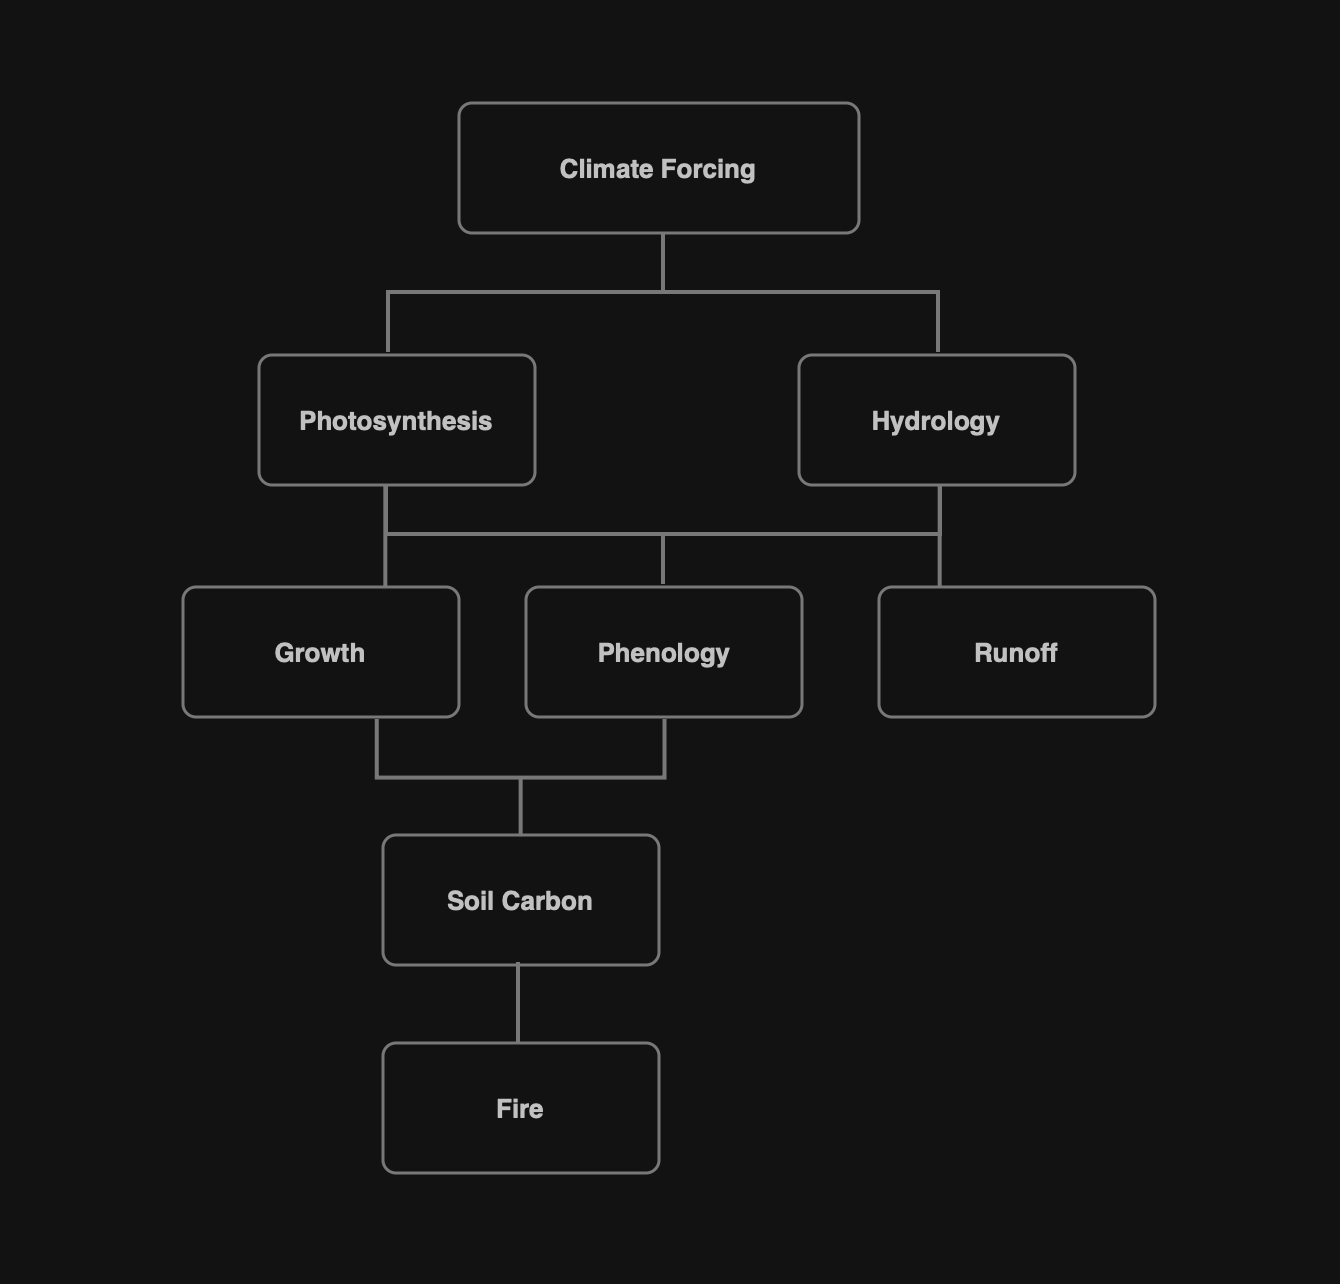
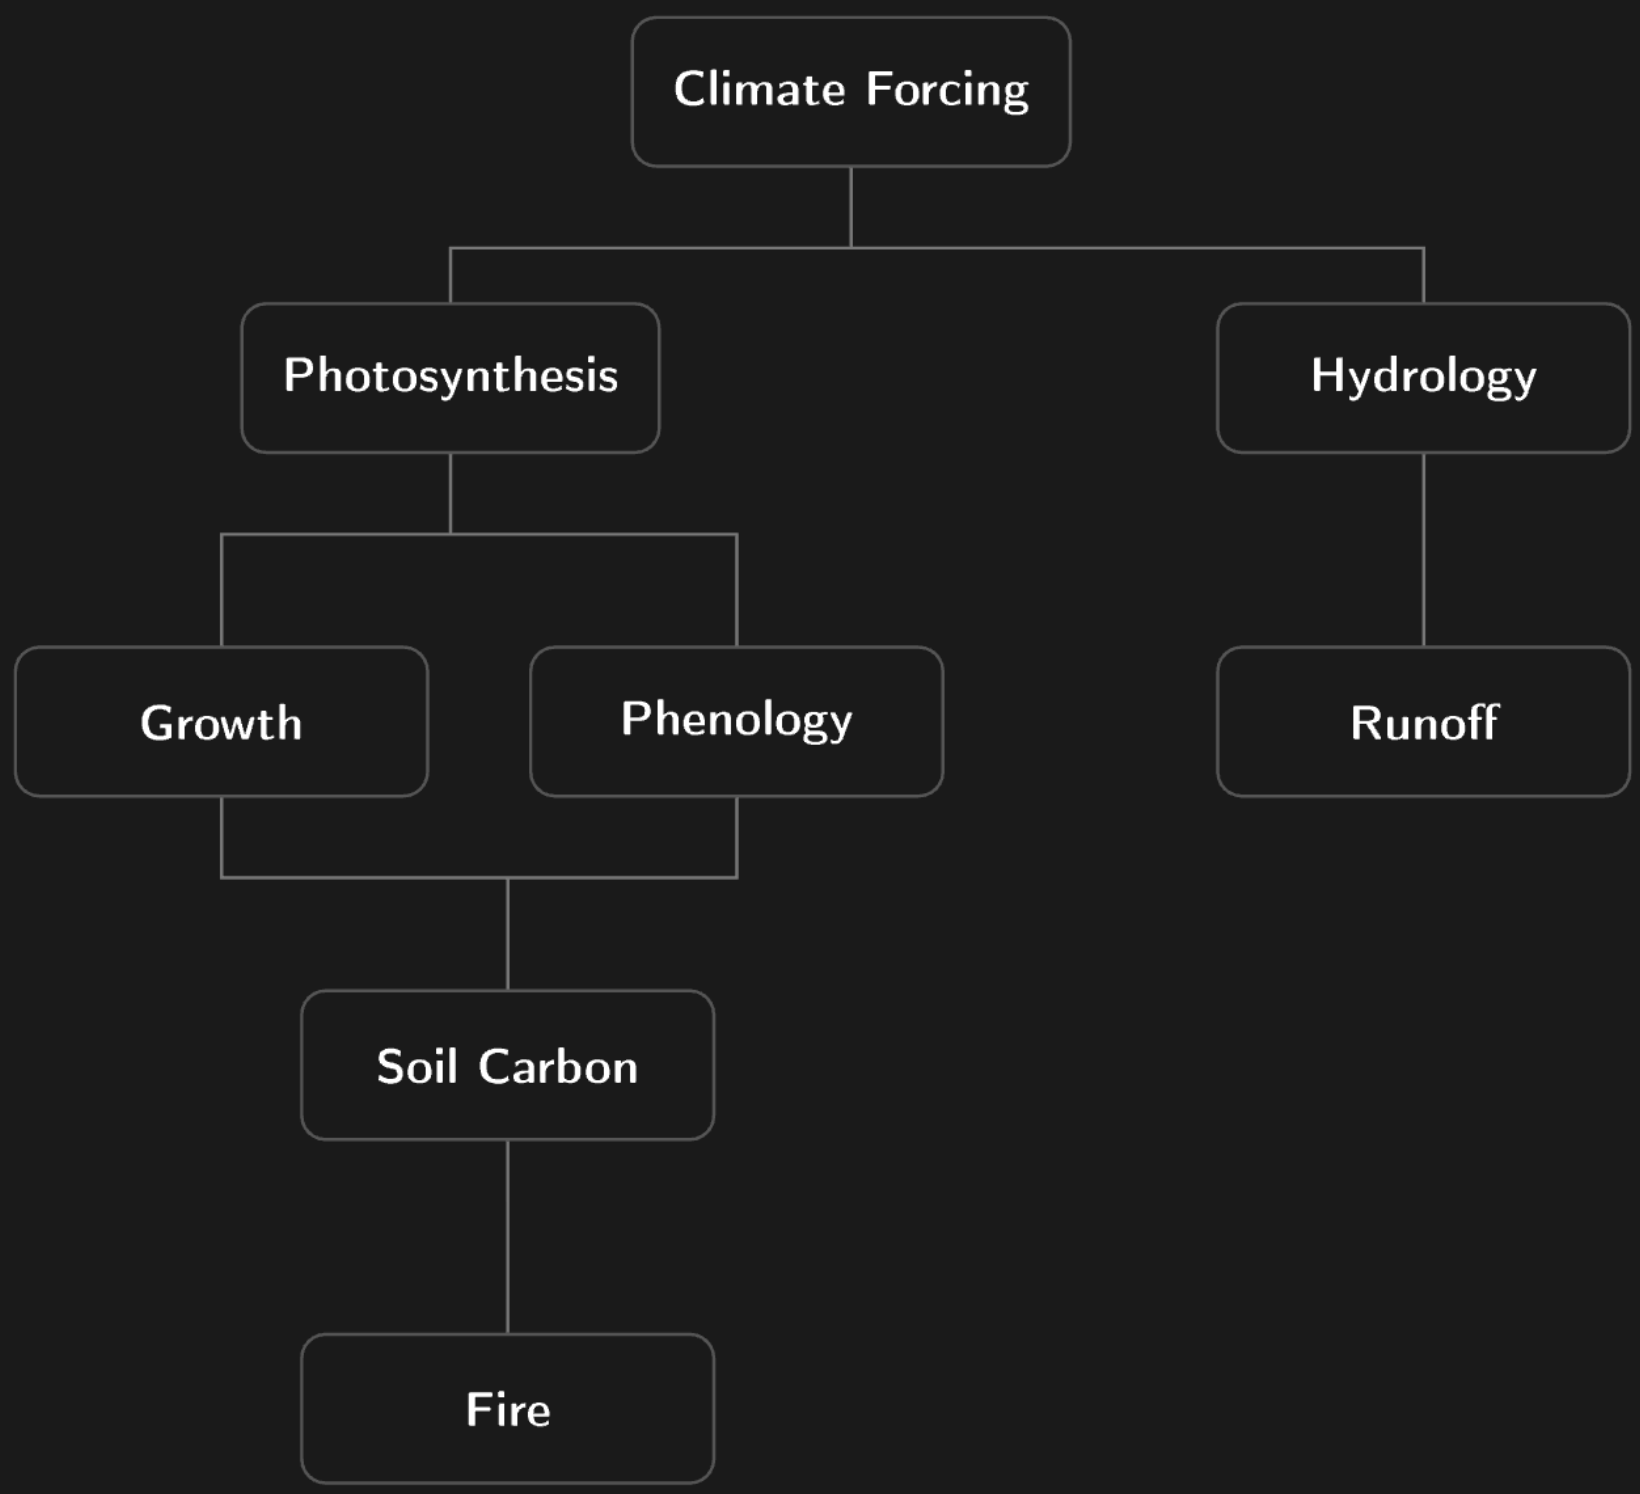
Update blog diagrams, fix distill layout, add bibliography
- Updated autoresearch loop and dependency graph PNGs
- Added echarts + chartjs script includes to distill layout
- Added scroll lock fix for distill page load
- Added bibliography reference back to frontmatter
- Added table border styles for distill
- Removed authors/affiliations from frontmatter

diff --git a/_sass/_distill.scss b/_sass/_distill.scss
@@ -2,8 +2,111 @@
  * Style overrides for distill blog posts.
  ******************************************************************************/
 
+d-title,
+d-byline,
+d-article,
+d-appendix,
+d-footnote-list,
+d-citation-list {
+  display: grid;
+  justify-items: stretch;
+  grid-template-columns: [screen-start] 8px [page-start kicker-start text-start gutter-start middle-start] 1fr 1fr 1fr 1fr 1fr 1fr 1fr 1fr [text-end page-end gutter-end kicker-end middle-end] 8px [screen-end];
+  grid-column-gap: 8px;
+}
+
+@media (min-width: 768px) {
+  d-title,
+  d-byline,
+  d-article,
+  d-appendix,
+  d-footnote-list,
+  d-citation-list {
+    grid-template-columns: [screen-start] 1fr [page-start kicker-start middle-start text-start] 45px 45px 45px 45px 45px 45px 45px 45px [kicker-end text-end gutter-start] 45px [middle-end] 45px [page-end gutter-end] 1fr [screen-end];
+    grid-column-gap: 16px;
+  }
+}
+
+@media (min-width: 1000px) {
+  d-title,
+  d-byline,
+  d-article,
+  d-appendix,
+  d-footnote-list,
+  d-citation-list {
+    grid-template-columns: [screen-start] 1fr [page-start kicker-start] 50px [middle-start] 50px [text-start kicker-end] 50px 50px 50px 50px 50px 50px 50px 50px [text-end gutter-start] 50px [middle-end] 50px [page-end gutter-end] 1fr [screen-end];
+  }
+}
+
+@media (min-width: 1180px) {
+  d-title,
+  d-byline,
+  d-article,
+  d-appendix,
+  d-footnote-list,
+  d-citation-list {
+    grid-template-columns: [screen-start] 1fr [page-start kicker-start] 60px [middle-start] 60px [text-start kicker-end] 60px 60px 60px 60px 60px 60px 60px 60px [text-end gutter-start] 60px [middle-end] 60px [page-end gutter-end] 1fr [screen-end];
+    grid-column-gap: 32px;
+  }
+}
+
+d-title {
+  padding: 2rem 0 1.5rem;
+  contain: layout style;
+  overflow-x: hidden;
+}
+
+@media (min-width: 768px) {
+  d-title {
+    padding: 4rem 0 1.5rem;
+  }
+}
+
+d-title h1,
+d-title p,
+.l-text,
+.l-body {
+  grid-column: text;
+}
+
+d-title h1 {
+  font-size: 40px;
+  font-weight: 700;
+  line-height: 1.1em;
+  margin: 0 0 0.5rem;
+}
+
+@media (min-width: 768px) {
+  d-title h1 {
+    font-size: 50px;
+  }
+}
+
+d-title p {
+  font-weight: 300;
+  font-size: 1.2rem;
+  line-height: 1.55em;
+  margin: 0;
+}
+
 d-byline {
+  contain: style;
+  overflow: hidden;
   border-top-color: var(--global-divider-color) !important;
+  font-size: 0.8rem;
+  line-height: 1.8em;
+  padding: 1.5rem 0;
+  min-height: 1.8em;
+}
+
+d-byline .byline {
+  grid-template-columns: 1fr 1fr;
+  grid-column: text;
+}
+
+@media (min-width: 768px) {
+  d-byline .byline {
+    grid-template-columns: 1fr 1fr 1fr 1fr;
+  }
 }
 
 d-byline h3 {
@@ -34,10 +137,19 @@ d-article {
   h1,
   h2,
   hr,
-  table,
+  table {
+    border-bottom-color: var(--global-divider-color) !important;
+  }
+  table {
+    border-collapse: collapse !important;
+    width: 100% !important;
+  }
   table th,
   table td {
-    border-bottom-color: var(--global-divider-color) !important;
+    border-bottom: 1px solid rgba(128, 128, 128, 0.35) !important;
+  }
+  table th {
+    border-bottom-width: 2px !important;
   }
   a {
     color: var(--global-theme-color) !important;

diff --git a/_posts/2026-03-20-autoresearch-earth-system-models.md b/_posts/2026-03-20-autoresearch-earth-system-models.md
@@ -8,10 +8,8 @@ categories: code
 giscus_comments: false
 published: true
 pretty_table: true
-authors:
-  - name: Dev Paragiri
-    affiliations:
-      name: University of Maryland
+chart:
+  echarts: true
 bibliography: 2026-03-20-autoresearch-earth-system-models.bib
 
 toc:
@@ -26,12 +24,6 @@ toc:
   - name: Limitations and Generalization
 
 _styles: >
-  html {
-    scroll-behavior: auto !important;
-  }
-  d-title {
-    scroll-margin-top: 0 !important;
-  }
   table {
     border-collapse: collapse !important;
     width: 100% !important;
@@ -92,52 +84,37 @@ The fire module provided the initial proof of concept for the autoresearch metho
 
 $$\text{fire} = \text{AGB} \times \left(\frac{\bar{D}}{\text{norm}}\right)^{\text{exp}}$$
 
----
-
-This formulation assumes that fire risk increases monotonically with fuel load and dryness. Evaluation against [GFED4.1s](https://www.globalfiredata.org/) burned area (<d-cite key="hashimoto2015soil"></d-cite>) yielded a spatial correlation of r = 0.09, effectively no skill.
+This formulation assumes that fire risk increases monotonically with fuel load and dryness. Evaluation against [GFED4.1s](https://www.globalfiredata.org/) burned area <d-cite key="hashimoto2015soil"></d-cite> yielded a spatial correlation of r = 0.09, effectively no skill.
 
 The LLM diagnosis identified a well-documented ecological pattern that the formula structure fails to capture: fire occurrence peaks at intermediate levels of productivity <d-cite key="pausas2013fire"></d-cite>. Savannas burn frequently because they produce sufficient fuel during the wet season that cures during the dry season. Closed-canopy rainforests rarely burn because high humidity prevents fuel drying. Deserts and sparse shrublands lack fuel entirely. This intermediate productivity hypothesis requires a _unimodal_ response to biomass, which a monotonically increasing power law cannot represent.
 
 The replacement formula couples a sigmoid ignition function with a unimodal fuel response:
 
----
-
 $$\text{fire} = \frac{1}{1 + e^{-k(\bar{D} - D_0)}} \times \left(1 - e^{-\text{AGB}/b}\right) e^{-\text{AGB}/d}$$
-
----
 
 The sigmoid captures the threshold behavior of fuel curing (a smooth transition from non-flammable to flammable as dryness accumulates). The hump-shaped fuel term peaks at intermediate biomass, consistent with the savanna fire regime. Spatial correlation improved to r = 0.41.
 
 Incorporating GPP as a third input further improved the model to r = 0.65. GPP captures the seasonal productivity cycle through its linkage to stomatal conductance: high GPP during the growing season indicates active transpiration and fuel production, while subsequent dry-season GPP decline indicates fuel curing. For reference, published global fire models in the TRENDY ensemble typically achieve r = 0.5-0.7 against GFED.
 
-$$\text{fire} = \text{sigmoid}(\bar{D}) \times \text{fuel\_hump}(\text{AGB}) \times \text{productivity\_hump}(\text{GPP})$$
+$$\text{fire} = \text{sigmoid}(\bar{D}) \times \text{fuel_hump}(\text{AGB}) \times \text{productivity_hump}(\text{GPP})$$
 
 This structural change, from a monotonic to a unimodal response, was the primary source of improvement. Parameter tuning within the original power-law structure yielded negligible gains.
-
----
 
 ### Decomposition and the Cold Soil Problem
 
 ED's soil carbon decomposition follows a simplified [CENTURY model](https://www2.nrel.colostate.edu/projects/century/) <d-cite key="parton1993century"></d-cite> with four carbon pools (structural, fast, slow, passive) and a decomposition scalar that combines temperature and moisture effects:
 
----
-
 $$T_d = R_0 \cdot Q_{10}^{(T - 25)/10}, \quad W_d = \text{piecewise}(\theta; 0.3, 0.6)$$
 
 $$A = T_d \cdot W_d$$
-
----
 
 The constants $$R_0 = 0.40$$, $$Q_{10} = 1.5$$, and the moisture breakpoints are hardcoded in the C++ source. They have never been tuned against observational soil carbon datasets.
 
 The Q10 formulation assumes a fixed proportional increase in decomposition rate per 10°C warming. At low temperatures, this produces an exponentially declining curve that approaches zero at 0°C. Davidson and Janssens <d-cite key="davidson2006temperature"></d-cite> review the evidence that this formulation overestimates temperature sensitivity at low temperatures, where enzyme kinetics are better described by activation energy models. The Lloyd-Taylor <d-cite key="lloyd1994temperature"></d-cite> response, derived from an Arrhenius framework with an empirical correction for enzyme behavior near freezing, asymptotically flattens below approximately 5°C:
 
----
-
 $$T_d = R_0 \cdot \exp\left(E_0 \cdot \left(\frac{1}{56.02} - \frac{1}{T + 46.02}\right)\right)$$
 
----
-
+<br>
 ```echarts
 {
   "tooltip": {"trigger": "axis"},
@@ -151,18 +128,12 @@ $$T_d = R_0 \cdot \exp\left(E_0 \cdot \left(\frac{1}{56.02} - \frac{1}{T + 46.02
   "grid": {"left": "12%", "right": "5%", "bottom": "15%"}
 }
 ```
-
----
-
+<br>
 The key difference is visible in the 0-10°C range: Lloyd-Taylor rises more gradually from freezing, allowing cold soils to retain more carbon. This matches the observed pattern where boreal and arctic soils contain disproportionately large carbon stocks relative to their low temperatures.
 
 Replacing Q10 with Lloyd-Taylor improved soil carbon predictions at high latitudes, where the original formulation allowed decomposition rates that were too high relative to the cold temperatures. We also replaced the piecewise-linear moisture response with a log-parabolic function <d-cite key="moyano2013moisture"></d-cite>, which provides a smooth optimum without hard breakpoints:
 
----
-
 $$W_d = \exp\left(-\frac{(\ln(\theta / \theta_{\text{opt}}))^2}{2\sigma^2}\right)$$
-
----
 
 The optimized moisture parameter $$\sigma = 3.7$$ is very wide, indicating that moisture has a weak spatial modulating effect on decomposition at the global scale. Temperature dominates. This is consistent with the global synthesis of Bond-Lamberty and Thomson <d-cite key="bond2010soil"></d-cite>.
 
@@ -170,27 +141,17 @@ We further simplified the four-pool CENTURY structure to a two-pool model (labil
 
 The global soil carbon bias decreased from −50% to effectively zero. Spatial correlation against HWSD improved from 0.43 to 0.48. At high latitudes, correlation against the [Northern Circumpolar Soil Carbon Database (NCSCD)](https://bolin.su.se/data/ncscd/) <d-cite key="hugelius2014ncscd"></d-cite> improved from 0.11 to 0.19 after incorporating a vegetation gap-fill (discussed below).
 
----
-
 ### Closing the Water Balance
 
 Evapotranspiration, runoff, and precipitation must satisfy a conservation law:
 
----
-
 $$P = ET + R + \Delta S$$
-
----
 
 At the annual timescale, changes in storage ($$\Delta S$$) are approximately zero, so precipitation should equal evapotranspiration plus runoff. When ET and runoff are optimized against their respective observational targets (GLEAM and LORA) using independently chosen formulations, this constraint can be violated. We found an 81 mm/yr global residual when using separately optimized models.
 
 Joint optimization using a single ET formulation for both targets resolved this. We replaced ED's hourly Penman-Monteith scheme with the [Hargreaves PET estimate](https://elibrary.asabe.org/abstract.asp?aid=26773) <d-cite key="hargreaves1985reference"></d-cite> coupled to Zhang's [vegetation-dependent Budyko curve](https://doi.org/10.1029/2000WR900325) <d-cite key="zhang2001response"></d-cite>, partitioned between soil evaporation and canopy transpiration using Beer's law interception:
 
----
-
 $$\frac{ET}{P} = \frac{1 + w \cdot PET/P}{1 + w \cdot PET/P + P/PET}$$
-
----
 
 The parameter $$w$$ controls the vegetation dependency. A higher $$w$$ means a larger fraction of precipitation is returned to the atmosphere through transpiration, reflecting the deeper rooting depth and higher canopy conductance of forests compared to grasslands. The optimized value $$w = 5.2$$ indicates strong vegetation control on the water balance. Canopy transpiration exceeds bare-soil evaporation by approximately 44% at the same atmospheric demand, consistent with eddy-covariance observations across biome gradients.
 
